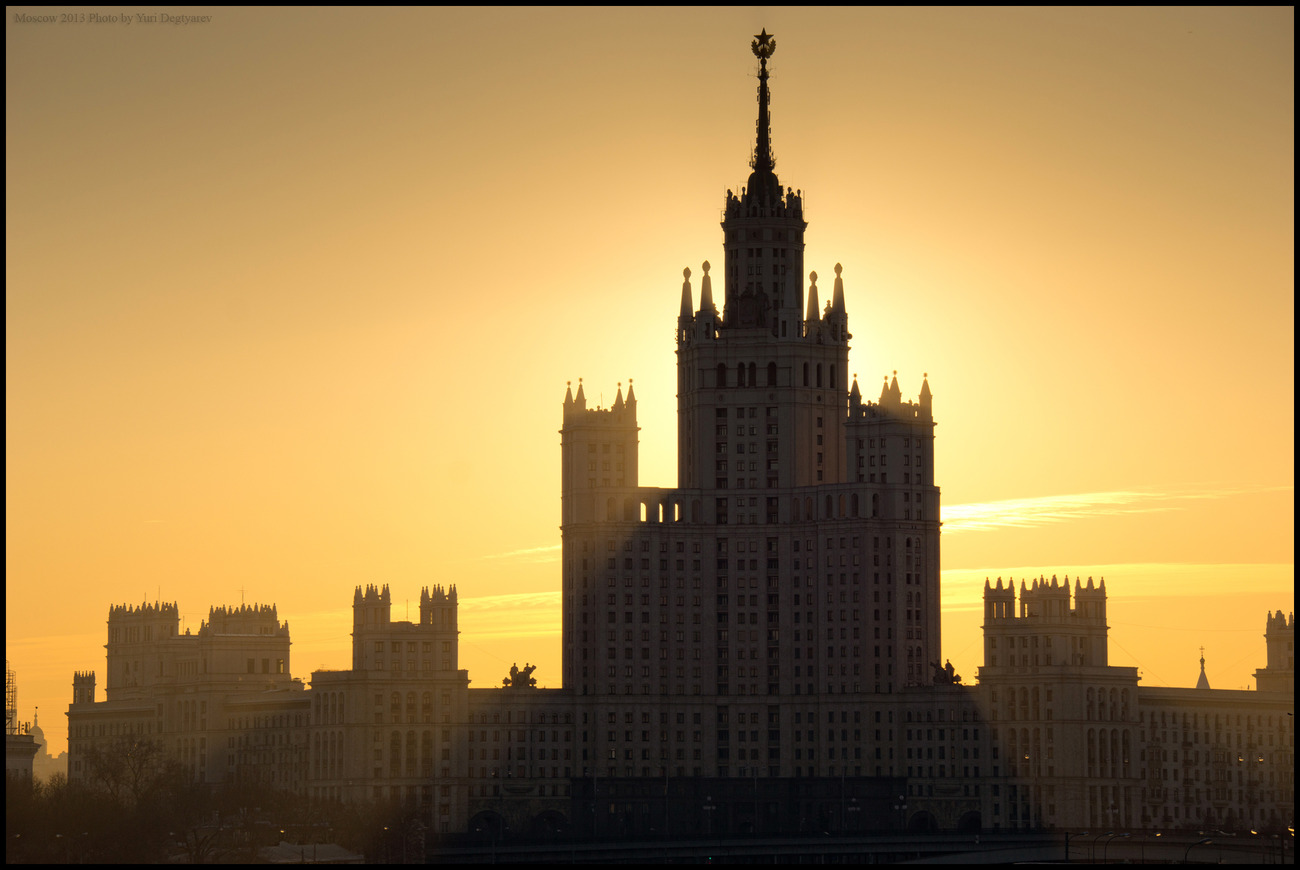
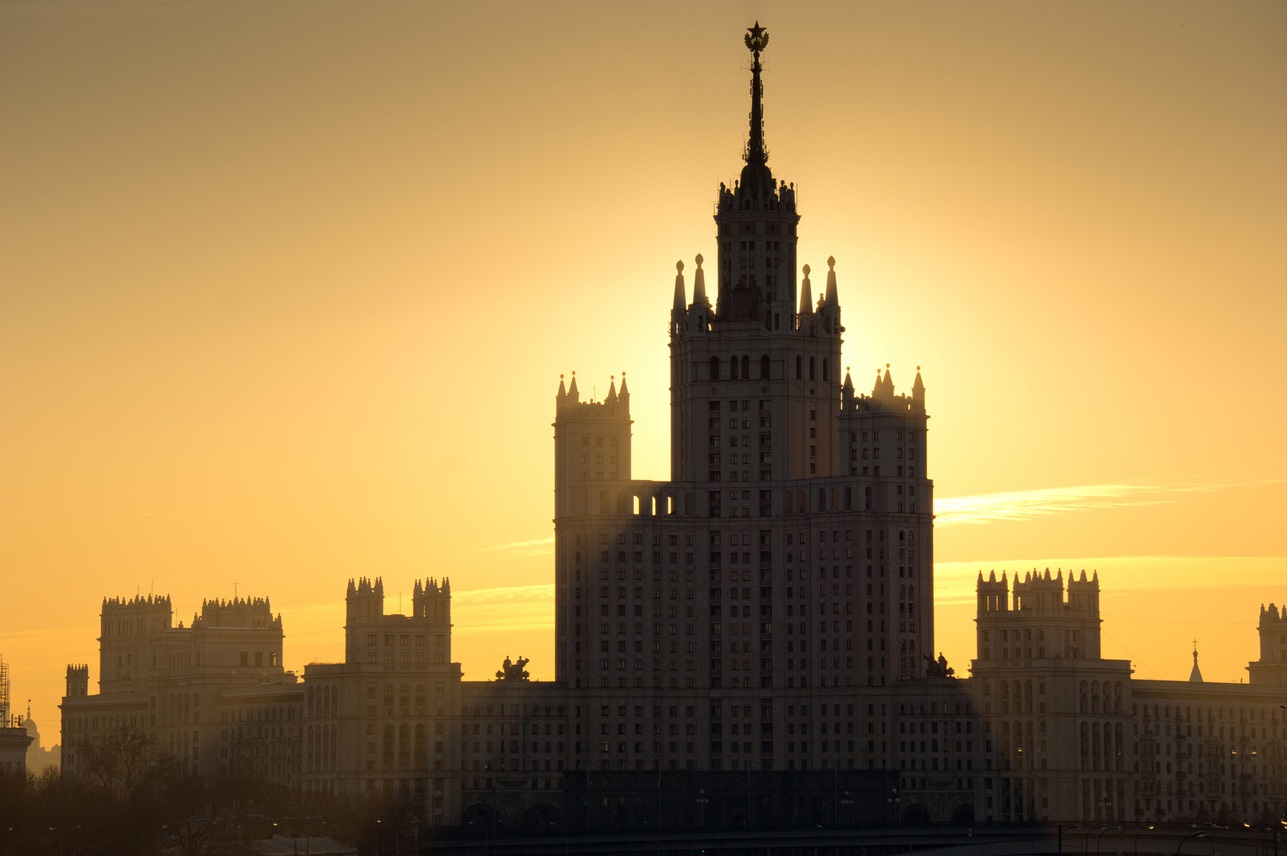
Разработка ++

diff --git a/index.html b/index.html
@@ -2,7 +2,7 @@
 <html>
 <head lang="en">
     <meta charset="UTF-8">
-    <title>Backbone/Require/Pimple JS</title>
+    <title>Dmitry Erzunov | Javascript Developer</title>
     <script data-main="app" src="lib/require.js"></script>
     <link rel="stylesheet" href="bower_components/bootstrap/dist/css/bootstrap.min.css"/>
     <link rel="stylesheet" href="app/styles/bootstrap-flat.css"/>
@@ -92,8 +92,11 @@
             <div class="container">
                 <div class="carousel-caption">
                     <h1>Привет!</h1>
-                    <p>Меня зовут Дмитрий Ерзунов. Я - Javascript разработчик.</p>
-                    <p><a class="btn btn-lg btn-primary" href="#" role="button">Sign up today</a></p>
+                    <p>
+                        Меня зовут Дмитрий Ерзунов. Я - Javascript разработчик. <br>
+                        Расскажу Вам немного о себе.
+                    </p>
+                    <p><a class="btn btn-lg btn-primary" target="_blank" href="http://ru.linkedin.com/pub/дмитрий-ерзунов/59/6b4/a26/ru" role="button">LinkedIn</a></p>
                 </div>
             </div>
         </div>
@@ -110,18 +113,7 @@
                 </div>
             </div>
         </div>
-        <div class="item">
-            <div  class="carousel-image kl">
-                <div class="overlay"></div>
-            </div>
-            <div class="container">
-                <div class="carousel-caption">
-                    <h1>Лаборатория Касперского</h1>
-                    <p>Будучи мальчишкой, я и представить не мог, что буду работать в&nbsp;легендарной лаборатории.</p>
-                    <p><a class="btn btn-lg btn-primary" target="_blank" href="http://kaspersky.com" role="button">На сайт</a></p>
-                </div>
-            </div>
-        </div>
+
         <div class="item">
             <div  class="carousel-image mgudt">
                 <div class="overlay"></div>
@@ -131,6 +123,19 @@
                     <h1>МГУДТ</h1>
                     <p>Ленивая&nbsp;юность, лекции, консекты, лабораторки. <br/> Беззаботное студенчество и бессонные&nbsp;ночи перед&nbsp;экзаменами подарили мне уйму знаний и верных друзей.</p>
                     <p><a class="btn btn-lg btn-primary" href="#" role="button">Sign up today</a></p>
+                </div>
+            </div>
+        </div>
+
+        <div class="item">
+            <div  class="carousel-image kl">
+                <div class="overlay"></div>
+            </div>
+            <div class="container">
+                <div class="carousel-caption">
+                    <h1>Лаборатория Касперского</h1>
+                    <p>Будучи мальчишкой, я и представить не мог, что буду работать в&nbsp;легендарной лаборатории.</p>
+                    <p><a class="btn btn-lg btn-primary" target="_blank" href="http://kaspersky.com" role="button">На сайт</a></p>
                 </div>
             </div>
         </div>

diff --git a/app/templates/Page1.html b/app/templates/Page1.html
@@ -14,8 +14,11 @@
             <div class="container">
                 <div class="carousel-caption">
                     <h1>Привет!</h1>
-                    <p>Меня зовут Дмитрий Ерзунов. Я - Javascript разработчик.</p>
-                    <p><a class="btn btn-lg btn-primary" href="#" role="button">Sign up today</a></p>
+                    <p>
+                        Меня зовут Дмитрий Ерзунов. Я - Javascript разработчик. <br>
+                        Расскажу Вам немного о себе.
+                    </p>
+                    <p><a class="btn btn-lg btn-primary" target="_blank" href="http://ru.linkedin.com/pub/дмитрий-ерзунов/59/6b4/a26/ru" role="button">LinkedIn</a></p>
                 </div>
             </div>
         </div>
@@ -32,18 +35,7 @@
                 </div>
             </div>
         </div>
-        <div class="item">
-            <div  class="carousel-image kl">
-                <div class="overlay"></div>
-            </div>
-            <div class="container">
-                <div class="carousel-caption">
-                    <h1>Лаборатория Касперского</h1>
-                    <p>Будучи мальчишкой, я и представить не мог, что буду работать в&nbsp;легендарной лаборатории.</p>
-                    <p><a class="btn btn-lg btn-primary" target="_blank" href="http://kaspersky.com" role="button">На сайт</a></p>
-                </div>
-            </div>
-        </div>
+
         <div class="item">
             <div  class="carousel-image mgudt">
                 <div class="overlay"></div>
@@ -53,6 +45,19 @@
                     <h1>МГУДТ</h1>
                     <p>Ленивая&nbsp;юность, лекции, консекты, лабораторки. <br/> Беззаботное студенчество и бессонные&nbsp;ночи перед&nbsp;экзаменами подарили мне уйму знаний и верных друзей.</p>
                     <p><a class="btn btn-lg btn-primary" href="#" role="button">Sign up today</a></p>
+                </div>
+            </div>
+        </div>
+
+        <div class="item">
+            <div  class="carousel-image kl">
+                <div class="overlay"></div>
+            </div>
+            <div class="container">
+                <div class="carousel-caption">
+                    <h1>Лаборатория Касперского</h1>
+                    <p>Будучи мальчишкой, я и представить не мог, что буду работать в&nbsp;легендарной лаборатории.</p>
+                    <p><a class="btn btn-lg btn-primary" target="_blank" href="http://kaspersky.com" role="button">На сайт</a></p>
                 </div>
             </div>
         </div>

diff --git a/templates.html b/templates.html
@@ -59,8 +59,11 @@
             <div class="container">
                 <div class="carousel-caption">
                     <h1>Привет!</h1>
-                    <p>Меня зовут Дмитрий Ерзунов. Я - Javascript разработчик.</p>
-                    <p><a class="btn btn-lg btn-primary" href="#" role="button">Sign up today</a></p>
+                    <p>
+                        Меня зовут Дмитрий Ерзунов. Я - Javascript разработчик. <br>
+                        Расскажу Вам немного о себе.
+                    </p>
+                    <p><a class="btn btn-lg btn-primary" target="_blank" href="http://ru.linkedin.com/pub/дмитрий-ерзунов/59/6b4/a26/ru" role="button">LinkedIn</a></p>
                 </div>
             </div>
         </div>
@@ -77,18 +80,7 @@
                 </div>
             </div>
         </div>
-        <div class="item">
-            <div  class="carousel-image kl">
-                <div class="overlay"></div>
-            </div>
-            <div class="container">
-                <div class="carousel-caption">
-                    <h1>Лаборатория Касперского</h1>
-                    <p>Будучи мальчишкой, я и представить не мог, что буду работать в&nbsp;легендарной лаборатории.</p>
-                    <p><a class="btn btn-lg btn-primary" target="_blank" href="http://kaspersky.com" role="button">На сайт</a></p>
-                </div>
-            </div>
-        </div>
+
         <div class="item">
             <div  class="carousel-image mgudt">
                 <div class="overlay"></div>
@@ -98,6 +90,19 @@
                     <h1>МГУДТ</h1>
                     <p>Ленивая&nbsp;юность, лекции, консекты, лабораторки. <br/> Беззаботное студенчество и бессонные&nbsp;ночи перед&nbsp;экзаменами подарили мне уйму знаний и верных друзей.</p>
                     <p><a class="btn btn-lg btn-primary" href="#" role="button">Sign up today</a></p>
+                </div>
+            </div>
+        </div>
+
+        <div class="item">
+            <div  class="carousel-image kl">
+                <div class="overlay"></div>
+            </div>
+            <div class="container">
+                <div class="carousel-caption">
+                    <h1>Лаборатория Касперского</h1>
+                    <p>Будучи мальчишкой, я и представить не мог, что буду работать в&nbsp;легендарной лаборатории.</p>
+                    <p><a class="btn btn-lg btn-primary" target="_blank" href="http://kaspersky.com" role="button">На сайт</a></p>
                 </div>
             </div>
         </div>

diff --git a/app/styles/styles.css b/app/styles/styles.css
@@ -14,7 +14,7 @@
   margin: 0 100px;
 }
 .carousel-style .carousel-caption {
-  bottom: 40px;
+  bottom: 60px;
 }
 .carousel-style .carousel-image {
   position: absolute;
@@ -33,25 +33,28 @@
   right: 0;
   bottom: 0;
   left: 0;
-  background-color: rgba(8, 0, 26, 0.4);
+  background-color: rgba(8, 0, 26, 0.37);
 }
 .carousel-style .mgudt {
-  background-image: url('src/carousel/mgudt2.jpg');
+  background-image: url('src/carousel/mgudt.jpg');
 }
 .carousel-style .Moscow {
-  background-image: url('src/carousel/mcity.jpg');
+  background-image: url('src/carousel/stalin1.jpg');
+}
+.carousel-style .Moscow .overlay {
+  background-color: rgba(8, 0, 26, 0.4);
 }
 .carousel-style .hi {
   background-image: url('src/carousel/javascript.jpg');
 }
 .carousel-style .hi .overlay {
-  background-color: rgba(8, 0, 26, 0.5);
+  background-color: rgba(8, 0, 26, 0.4);
 }
 .carousel-style .kl {
   background-image: url('src/carousel/kl3.jpg');
 }
 .carousel-style .kl .overlay {
-  background-color: rgba(8, 0, 26, 0.5);
+  background-color: rgba(8, 0, 26, 0.4);
 }
 @media (max-width: 770px) {
   .carousel-style .carousel-caption {
@@ -101,5 +104,7 @@
   }
   .navbar-wrapper > .container .navbar {
     background-color: #333;
+    position: fixed;
+    width: 100%;
   }
 }

diff --git a/app/styles/src/carousel/carousel.less b/app/styles/src/carousel/carousel.less
@@ -13,7 +13,7 @@
 .carousel-style {
 
   .carousel-caption {
-    bottom: 40px;
+    bottom: 60px;
   }
 
   .carousel-image {
@@ -33,23 +33,27 @@
       right: 0;
       bottom: 0;
       left: 0;
-      background-color: rgba(8,0,26,.4);
+      background-color: rgba(8,0,26, 0.37);
+
+
 
     }
   }
 
   .mgudt {
-    background-image: url('mgudt2.jpg');
+    background-image: url('mgudt.jpg');
   }
 
   .Moscow {
-    background-image: url('mcity.jpg');
-
+    background-image: url('stalin1.jpg');
+    .overlay {
+      background-color: rgba(8, 0, 26, 0.4);
+    }
   }
   .hi {
     background-image: url('javascript.jpg');
     .overlay {
-      background-color: rgba(8, 0, 26, 0.5);
+      background-color: rgba(8, 0, 26, 0.4);
     }
   }
 
@@ -57,12 +61,12 @@
     background-image: url('kl3.jpg');
 
     .overlay {
-      background-color: rgba(8, 0, 26, 0.5);
+      background-color: rgba(8, 0, 26, 0.4);
     }
   }
-
-
 }
+
+
 
 @media (max-width: 770px) {
   .carousel-style {

diff --git a/index-top.html b/index-top.html
@@ -2,7 +2,7 @@
 <html>
 <head lang="en">
     <meta charset="UTF-8">
-    <title>Backbone/Require/Pimple JS</title>
+    <title>Dmitry Erzunov | Javascript Developer</title>
     <script data-main="app" src="lib/require.js"></script>
     <link rel="stylesheet" href="bower_components/bootstrap/dist/css/bootstrap.min.css"/>
     <link rel="stylesheet" href="app/styles/bootstrap-flat.css"/>

diff --git a/app/styles/carousel.css b/app/styles/carousel.css
@@ -80,7 +80,7 @@ body {
   /* Bump up size of carousel content */
   .carousel-caption p {
     margin-bottom: 20px;
-    font-size: 21px;
+    font-size: 25px;
     line-height: 1.4;
   }
 

diff --git a/app/styles/src/header/top-menu.less b/app/styles/src/header/top-menu.less
@@ -20,6 +20,9 @@
 
       .navbar {
         background-color: #333;
+
+        position: fixed;
+        width: 100%;
       }
     }
   }
